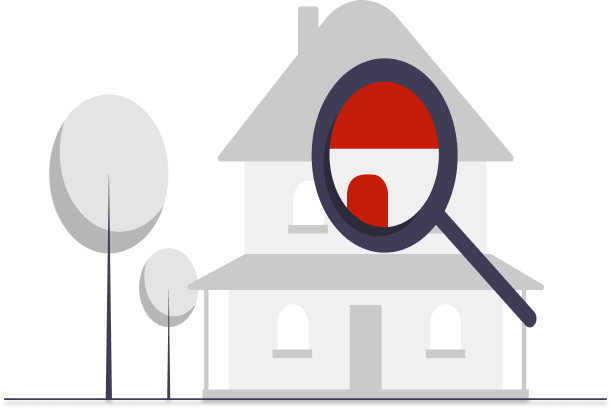
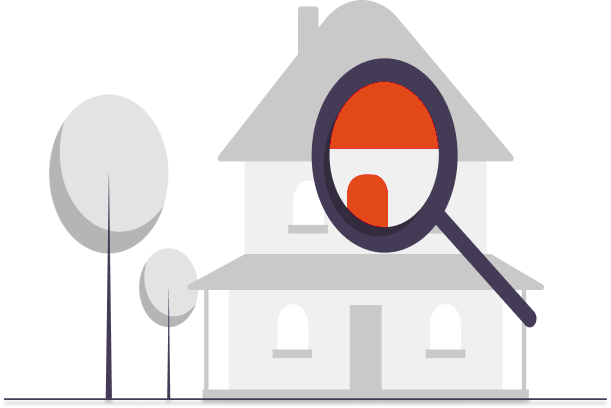
changing colors

Changed region(s): [[0.5286, 0.1765, 0.7152, 0.3824], [0.5597, 0.4118, 0.653, 0.5588]]

diff --git a/src/pages/LandingPage/style.js b/src/pages/LandingPage/style.js
@@ -14,7 +14,7 @@ const Title = styled.h1`
   font-weight: 400;
   font-size: 100px;
   line-height: 40px;
-  color: #000000;
+  color: #443b57;
   margin: 6rem;
   margin-top: 135px;
   margin-bottom: 0.9em;
@@ -30,7 +30,7 @@ const Button = styled.button`
   border-radius: 2px;
   padding: 4px, 4px, 4px, 4px;
   color: #ffffff;
-  background-color: #c51d0a;
+  background-color: #e34818;
   border: none;
   margin: 0 30px;
   cursor: pointer;
@@ -41,10 +41,11 @@ const Subtitle = styled.h3`
   font-style: normal;
   font-weight: 400;
   font-size: 20px;
-  color: #000000;
+  color: #443b57;
   margin: 4rem;
   margin-top: -2rem;
   padding-top: 10px;
+  text-align: center;
 `;
 
 export { Wrapper, Title, Button, Subtitle, DivButtons };

diff --git a/src/components/AnnouncementForm/style.js b/src/components/AnnouncementForm/style.js
@@ -4,16 +4,11 @@ import { Button as ButtonAntd, Form as FormAntd } from "antd";
 export const Wrapper = styled.div`
   display: flex;
   gap: 4.75rem;
-  /* justify-content: space-between; */
-  /* margin-left: 40px; */
 `;
 
 export const VacancyForm = styled(FormAntd)`
   display: flex;
   flex-direction: column;
-  /* .ant-form-item-control {
-    width: 100%;
-  } */
 `;
 
 export const AddressForm = styled(FormAntd)`
@@ -28,6 +23,6 @@ export const RowItem = styled.div`
 `;
 
 export const Button = styled(ButtonAntd)`
-  background-color: #c51d0a;
+  background-color: #e34818;
   border-color: transparent;
 `;

diff --git a/src/pages/CreateAnnouncement/style.js b/src/pages/CreateAnnouncement/style.js
@@ -2,7 +2,7 @@ import styled from "styled-components";
 import { Button as ButtonAntd } from "antd";
 
 export const H1 = styled.h1`
-  color: #c51d0a;
+  color: #e34818;
   font-weight: 500;
   font-size: 30px;
   margin-left: 43px;
@@ -32,14 +32,14 @@ export const UploadDiv = styled.div`
 `;
 
 export const Button = styled(ButtonAntd)`
-  background-color: #c51d0a;
+  background-color: #e34818;
   color: white;
   width: 150px;
   margin-left: 15rem;
   margin-top: 150px;
   border: none;
   &:hover {
-    background-color: red !important;
+    background-color: #e19877 !important;
     color: white;
   }
 `;

diff --git a/src/pages/EditAnnouncement/style.js b/src/pages/EditAnnouncement/style.js
@@ -2,7 +2,7 @@ import styled from "styled-components";
 import { Button as ButtonAntd } from "antd";
 
 export const H1 = styled.h1`
-  color: #c51d0a;
+  color: #e34818;
   font-weight: 500;
   font-size: 30px;
   margin-left: 43px;
@@ -33,14 +33,14 @@ export const UploadDiv = styled.div`
 `;
 
 export const Button = styled(ButtonAntd)`
-  background-color: #c51d0a;
+  background-color: #e34818;
   color: white;
   width: 150px;
   margin-left: 15rem;
   margin-top: 150px;
   border: none;
   &:hover {
-    background-color: red !important;
+    background-color: #e19877 !important;
     color: white;
   }
 `;

diff --git a/src/pages/LandingPage/index.js b/src/pages/LandingPage/index.js
@@ -16,7 +16,10 @@ const LandingPage = () => {
   return (
     <Wrapper>
       <Title>ApVizinho</Title>
-      <Subtitle>INSERIR TEXTINHO BONITINHO</Subtitle>
+      <Subtitle>
+        Aqui você encontra as melhores oportunidades de divisão de moradia na
+        sua cidade de forma rápida e simples
+      </Subtitle>
       <DivButtons>
         <Button type="primary" htmlType="button" onClick={navigateLogIn}>
           Fazer Login

diff --git a/src/pages/_layouts/PrivateLayout/style.js b/src/pages/_layouts/PrivateLayout/style.js
@@ -7,6 +7,8 @@ export const Header = styled(HeaderAntd)`
   display: flex;
   justify-content: space-between;
   align-items: center;
+  color: #443b57;
+  font-size: 20px;
 `;
 
 export const Layout = styled(LayoutAntd)`
@@ -22,7 +24,7 @@ export const TitleDiv = styled.div`
 export const PageTitle = styled.h1`
   font-size: 30px;
   font-weight: 400;
-  color: #c51d0a;
+  color: #e34818;
   margin: 0;
 `;
 

diff --git a/src/pages/ForgotPassword/style.js b/src/pages/ForgotPassword/style.js
@@ -14,7 +14,7 @@ export const Wrapper = styled.div`
 `;
 
 export const Link = styled.a`
-  color: #c51d0a;
+  color: #e34818;
   text-decoration: underline;
 `;
 
@@ -23,8 +23,8 @@ export const Form = styled(FormAntd)`
   min-width: 30.75rem;
   .ant-btn-primary {
     width: 100%;
-    border-color: #c51d0a;
-    background: #c51d0a;
+    border-color: #e34818;
+    background: #e34818;
   }
 `;
 

diff --git a/src/pages/LogIn/style.js b/src/pages/LogIn/style.js
@@ -14,7 +14,7 @@ export const Wrapper = styled.div`
 `;
 
 export const Link = styled.a`
-  color: #c51d0a;
+  color: #e34818;
   text-decoration: underline;
 `;
 
@@ -23,7 +23,7 @@ export const Form = styled(FormAntd)`
   min-width: 30.75rem;
   .ant-btn-primary {
     width: 100%;
-    border-color: #c51d0a;
-    background: #c51d0a;
+    border-color: #e34818;
+    background: #e34818;
   }
 `;

diff --git a/src/pages/EditUser/style.js b/src/pages/EditUser/style.js
@@ -41,13 +41,13 @@ export const InfoItemDiv = styled.div`
 `;
 
 export const ButtonRed = styled(ButtonAntd)`
-  background-color: #c51d0a;
+  background-color: #e34818;
   width: 350px;
   border: none;
   margin-bottom: 10px;
   color: white;
   &:hover {
-    background-color: red !important;
+    background-color: #e19877 !important;
     color: white;
   }
 `;

diff --git a/src/pages/LoadUser/style.js b/src/pages/LoadUser/style.js
@@ -41,13 +41,13 @@ export const InfoItemDiv = styled.div`
 `;
 
 export const ButtonRed = styled(ButtonAntd)`
-  background-color: #c51d0a;
+  background-color: #e34818;
   width: 350px;
   border: none;
   margin-bottom: 10px;
   color: white;
   &:hover {
-    background-color: red !important;
+    background-color: #e19877 !important;
     color: white;
   }
 `;

diff --git a/src/pages/LoadAnnouncement/style.js b/src/pages/LoadAnnouncement/style.js
@@ -100,10 +100,10 @@ export const ListItem = styled.p`
 
 export const Button = styled(ButtonAntd)`
   float: right;
-  background-color: #c51d0a;
+  background-color: #e34818;
   color: white;
   &:hover {
-    background-color: red !important;
+    background-color: #e19877 !important;
     color: white;
   }
 `;

diff --git a/src/components/FilterAnnouncement/FilterDrawer/style.js b/src/components/FilterAnnouncement/FilterDrawer/style.js
@@ -15,10 +15,10 @@ const Drawer = styled(DrawerAntd)`
 `;
 
 const ButtonRed = styled(ButtonAntd)`
-  background-color: #c51d0a;
+  background-color: #e34818;
   border: none;
   &:hover {
-    background-color: red !important;
+    background-color: #e19877 !important;
   }
 `;
 
